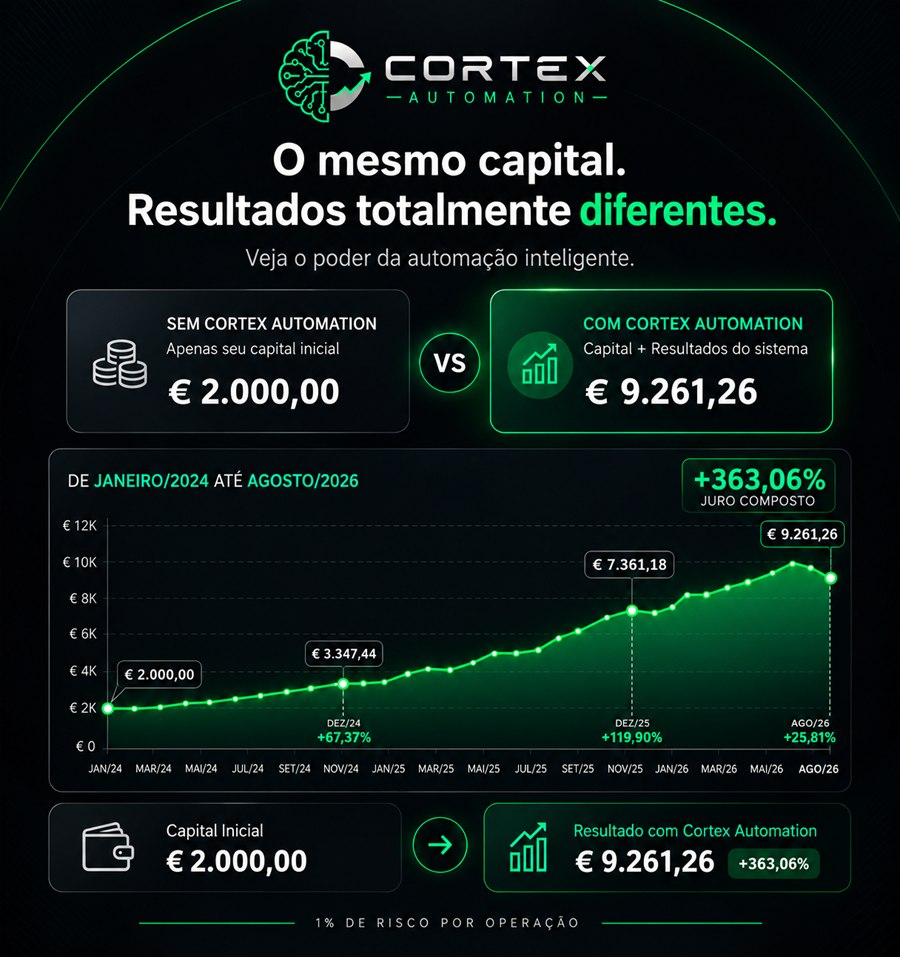
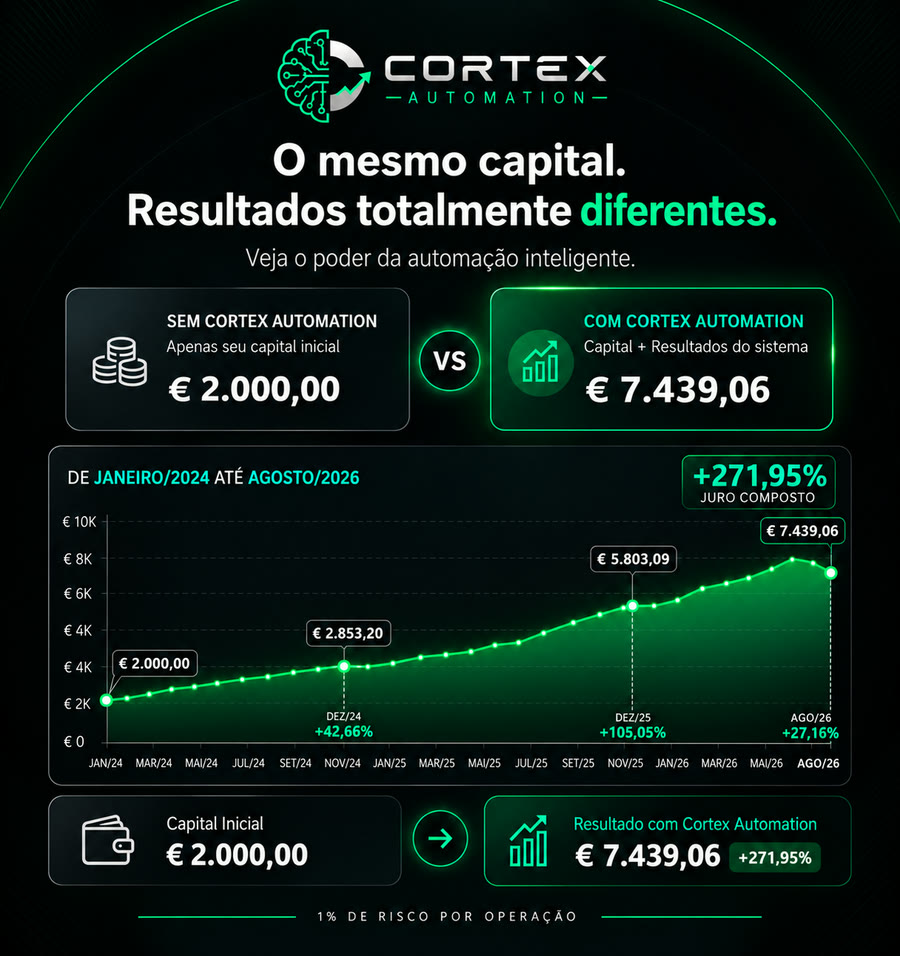
Comparativo novo, nota de Agosto mais curta e histórico por ordem
O comparativo passa a mostrar os 2.000 EUR a tornarem-se 7.439,06 EUR,
+271,95% com juro composto, com os marcos de cada ano na curva. Bate
certo com o cartão do hero, com a tabela e com a secção do porquê.

A nota de Agosto encolhe para duas frases e o link do MyFxBook passa a
botão, com o aviso da escala de 1,5% logo acima.

O painel do histórico passa a ler-se de cima para baixo pela ordem que
faz sentido: tabela mensal, 2024, 2025 e só no fim o resumo dos 32
meses. Antes o resumo aparecia antes dos anos que o compõem.

diff --git a/index.html b/index.html
@@ -696,13 +696,15 @@
         <div class="agosto">
           <span class="agosto__tag">* Agosto de 2026</span>
           <div class="agosto__bd">
-            <p>Agosto foi um m&ecirc;s excepcional. Uma anomalia na execu&ccedil;&atilde;o fez com que o resultado ficasse
-            abaixo do esperado. <strong>Assumimos o erro e compens&aacute;mos os clientes do nosso pr&oacute;prio bolso.</strong>
-            Mesmo assim, o desempenho anual mant&eacute;m-se elevado.</p>
-            <p class="agosto__fx">Os valores desta p&aacute;gina est&atilde;o &agrave; escala de <strong>1% de risco por
-            opera&ccedil;&atilde;o</strong>. A conta acompanhada no MyFxBook opera a <strong>1,5%</strong>, pelo que
-            apresenta valores mais altos, tanto nos ganhos como nas quedas.
-            <a href="https://www.myfxbook.com/members/AltrixCapital/altrix-ai-btc/12070737" target="_blank" rel="noopener noreferrer">Ver a conta no MyFxBook</a>.</p>
+            <p>Agosto foi um m&ecirc;s excepcional. Uma anomalia na execu&ccedil;&atilde;o afectou o resultado.
+            <strong>Assumimos o erro e compens&aacute;mos os clientes do nosso pr&oacute;prio bolso.</strong></p>
+            <p class="agosto__fx">Os valores apresentados est&atilde;o &agrave; escala de <strong>1% de risco por
+            opera&ccedil;&atilde;o</strong>. A conta no MyFxBook opera a <strong>1,5%</strong>, apresentando ganhos e
+            quedas proporcionalmente superiores.</p>
+            <a class="btn btn--ghost btn--sm agosto__cta" href="https://www.myfxbook.com/members/AltrixCapital/altrix-ai-btc/12070737" target="_blank" rel="noopener noreferrer">
+              Ver conta no MyFxBook
+              <svg width="13" height="13" viewBox="0 0 24 24" fill="none" stroke="currentColor" stroke-width="2.2" stroke-linecap="round" stroke-linejoin="round" aria-hidden="true"><path d="M7 17 17 7M9 7h8v8"/></svg>
+            </a>
           </div>
         </div>
 
@@ -726,13 +728,28 @@
           Deslize para o lado para ver a tabela toda
         </p>
 
-        <h4 class="h4" style="margin:40px 0 6px">32 meses de hist&oacute;rico</h4>
-        <p class="small" style="margin-bottom:20px">Janeiro de 2024 a Agosto de 2026, com 1% de risco por opera&ccedil;&atilde;o.</p>
-        <div class="kpis">
-          <div class="kpi"><b class="c-gain">+271,95%</b><span>Total com juro composto</span></div>
-          <div class="kpi"><b class="c-gain">+140,26%</b><span>Soma simples dos meses</span></div>
-          <div class="kpi"><b>25 / 32</b><span>Meses positivos</span></div>
-          <div class="kpi"><b class="c-gain">+4,38%</b><span>M&eacute;dia de lucro mensal</span></div>
+        <div class="year-hd">
+          <h4 class="h4">2024 &middot; m&ecirc;s a m&ecirc;s</h4>
+          <div class="kpis">
+            <div class="kpi"><b class="c-gain">+38,77%</b><span>Resultado em 2024</span></div>
+            <div class="kpi"><b>8 / 12</b><span>Meses positivos</span></div>
+            <div class="kpi"><b>9,75%</b><span>Pior queda mensal</span></div>
+            <div class="kpi"><b>81,74%</b><span>Taxa de acerto</span></div>
+          </div>
+        </div>
+        <div class="bars reveal-l" style="--zero:69.1%" role="img" aria-label="Resultado mensal de 2024: Jan −3,16%, Fev −6,05%, Mar −5,97%, Abr +6,38%, Mai +3,88%, Jun +5,44%, Jul +2,05%, Ago +14,03%, Set +9,06%, Out +8,57%, Nov +10,80%, Dez −6,26%">
+          <div class="bar bar--neg" style="--h:15.6%;--d:.04s"><i></i><span class="bar__val">−3,16%</span><span class="bar__lbl">Jan</span></div>
+          <div class="bar bar--neg" style="--h:29.8%;--d:.09s"><i></i><span class="bar__val">−6,05%</span><span class="bar__lbl">Fev</span></div>
+          <div class="bar bar--neg" style="--h:29.4%;--d:.14s"><i></i><span class="bar__val">−5,97%</span><span class="bar__lbl">Mar</span></div>
+          <div class="bar" style="--h:31.4%;--d:.19s"><i></i><span class="bar__val">+6,38%</span><span class="bar__lbl">Abr</span></div>
+          <div class="bar" style="--h:19.1%;--d:.24s"><i></i><span class="bar__val">+3,88%</span><span class="bar__lbl">Mai</span></div>
+          <div class="bar" style="--h:26.8%;--d:.29s"><i></i><span class="bar__val">+5,44%</span><span class="bar__lbl">Jun</span></div>
+          <div class="bar" style="--h:10.1%;--d:.34s"><i></i><span class="bar__val">+2,05%</span><span class="bar__lbl">Jul</span></div>
+          <div class="bar bar--best" style="--h:69.1%;--d:.39s"><i></i><span class="bar__val">+14,03%</span><span class="bar__lbl">Ago</span></div>
+          <div class="bar" style="--h:44.7%;--d:.44s"><i></i><span class="bar__val">+9,06%</span><span class="bar__lbl">Set</span></div>
+          <div class="bar" style="--h:42.2%;--d:.49s"><i></i><span class="bar__val">+8,57%</span><span class="bar__lbl">Out</span></div>
+          <div class="bar" style="--h:53.2%;--d:.54s"><i></i><span class="bar__val">+10,80%</span><span class="bar__lbl">Nov</span></div>
+          <div class="bar bar--neg" style="--h:30.9%;--d:.59s"><i></i><span class="bar__val">−6,26%</span><span class="bar__lbl">Dez</span></div>
         </div>
 
         <div class="year-hd">
@@ -759,28 +776,13 @@
           <div class="bar" style="--h:62.2%;--d:.59s"><i></i><span class="bar__val">+13,05%</span><span class="bar__lbl">Dez</span></div>
         </div>
 
-        <div class="year-hd">
-          <h4 class="h4">2024 &middot; m&ecirc;s a m&ecirc;s</h4>
-          <div class="kpis">
-            <div class="kpi"><b class="c-gain">+38,77%</b><span>Resultado em 2024</span></div>
-            <div class="kpi"><b>8 / 12</b><span>Meses positivos</span></div>
-            <div class="kpi"><b>9,75%</b><span>Pior queda mensal</span></div>
-            <div class="kpi"><b>81,74%</b><span>Taxa de acerto</span></div>
-          </div>
-        </div>
-        <div class="bars reveal-l" style="--zero:69.1%" role="img" aria-label="Resultado mensal de 2024: Jan −3,16%, Fev −6,05%, Mar −5,97%, Abr +6,38%, Mai +3,88%, Jun +5,44%, Jul +2,05%, Ago +14,03%, Set +9,06%, Out +8,57%, Nov +10,80%, Dez −6,26%">
-          <div class="bar bar--neg" style="--h:15.6%;--d:.04s"><i></i><span class="bar__val">−3,16%</span><span class="bar__lbl">Jan</span></div>
-          <div class="bar bar--neg" style="--h:29.8%;--d:.09s"><i></i><span class="bar__val">−6,05%</span><span class="bar__lbl">Fev</span></div>
-          <div class="bar bar--neg" style="--h:29.4%;--d:.14s"><i></i><span class="bar__val">−5,97%</span><span class="bar__lbl">Mar</span></div>
-          <div class="bar" style="--h:31.4%;--d:.19s"><i></i><span class="bar__val">+6,38%</span><span class="bar__lbl">Abr</span></div>
-          <div class="bar" style="--h:19.1%;--d:.24s"><i></i><span class="bar__val">+3,88%</span><span class="bar__lbl">Mai</span></div>
-          <div class="bar" style="--h:26.8%;--d:.29s"><i></i><span class="bar__val">+5,44%</span><span class="bar__lbl">Jun</span></div>
-          <div class="bar" style="--h:10.1%;--d:.34s"><i></i><span class="bar__val">+2,05%</span><span class="bar__lbl">Jul</span></div>
-          <div class="bar bar--best" style="--h:69.1%;--d:.39s"><i></i><span class="bar__val">+14,03%</span><span class="bar__lbl">Ago</span></div>
-          <div class="bar" style="--h:44.7%;--d:.44s"><i></i><span class="bar__val">+9,06%</span><span class="bar__lbl">Set</span></div>
-          <div class="bar" style="--h:42.2%;--d:.49s"><i></i><span class="bar__val">+8,57%</span><span class="bar__lbl">Out</span></div>
-          <div class="bar" style="--h:53.2%;--d:.54s"><i></i><span class="bar__val">+10,80%</span><span class="bar__lbl">Nov</span></div>
-          <div class="bar bar--neg" style="--h:30.9%;--d:.59s"><i></i><span class="bar__val">−6,26%</span><span class="bar__lbl">Dez</span></div>
+        <h4 class="h4" style="margin:48px 0 6px">32 meses de hist&oacute;rico</h4>
+        <p class="small" style="margin-bottom:20px">Janeiro de 2024 a Agosto de 2026, com 1% de risco por opera&ccedil;&atilde;o.</p>
+        <div class="kpis">
+          <div class="kpi"><b class="c-gain">+271,95%</b><span>Total com juro composto</span></div>
+          <div class="kpi"><b class="c-gain">+140,26%</b><span>Soma simples dos meses</span></div>
+          <div class="kpi"><b>25 / 32</b><span>Meses positivos</span></div>
+          <div class="kpi"><b class="c-gain">+4,38%</b><span>M&eacute;dia de lucro mensal</span></div>
         </div>
 
         <div class="doors doors--one">
@@ -813,7 +815,7 @@
 
     <div class="why">
       <figure class="why__fig reveal-l">
-        <img src="assets/comparativo.jpg" width="900" height="957" alt="Comparação do crescimento do capital com e sem a Cortex Automation: 2.000 € transformam-se em 4.805,20 €, +140,26% de Janeiro de 2024 a Agosto de 2026" loading="lazy" decoding="async">
+        <img src="assets/comparativo.jpg" width="900" height="956" alt="Comparação do crescimento do capital com e sem a Cortex Automation: 2.000 € transformam-se em 7.439,06 €, +271,95% com juro composto, de Janeiro de 2024 a Agosto de 2026" loading="lazy" decoding="async">
       </figure>
 
       <div class="why__list">

diff --git a/css/style.css b/css/style.css
@@ -3821,3 +3821,6 @@ html.lenis { scroll-behavior: auto !important; }
   text-underline-offset: 3px;
 }
 .agosto__fx a:hover { color: var(--acc-hi); }
+
+/* Botão do MyFxBook dentro da nota de Agosto */
+.agosto__cta { margin-top: 14px; }
